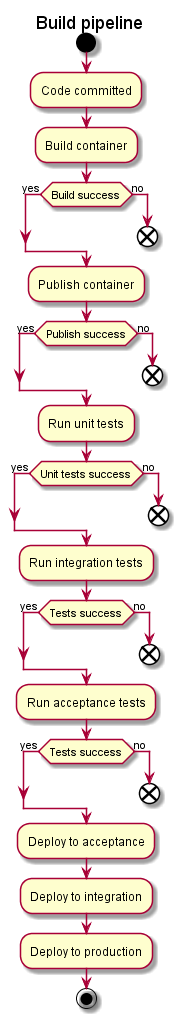
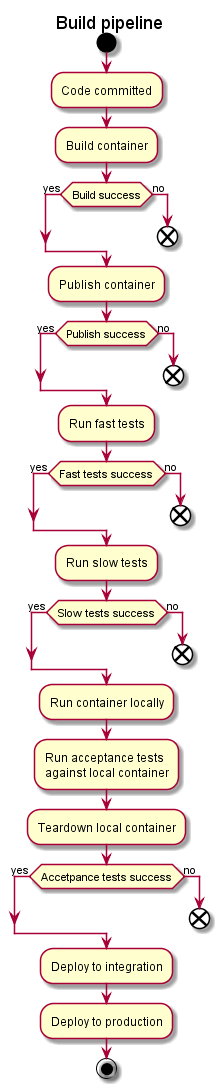
Updating the diagram after chatting to Jae

diff --git a/README.md b/README.md
@@ -1,2 +1,12 @@
 # usher
 A command line app to usher our containers to production
+
+### To do
+
+- [x] Describe the process
+- [ ] Publish the module to internal registry
+- [ ] Build command
+- [ ] Publish command
+- [ ] Unit tests command
+- [ ] Integration tests command
+- [ ] Acceptance command
